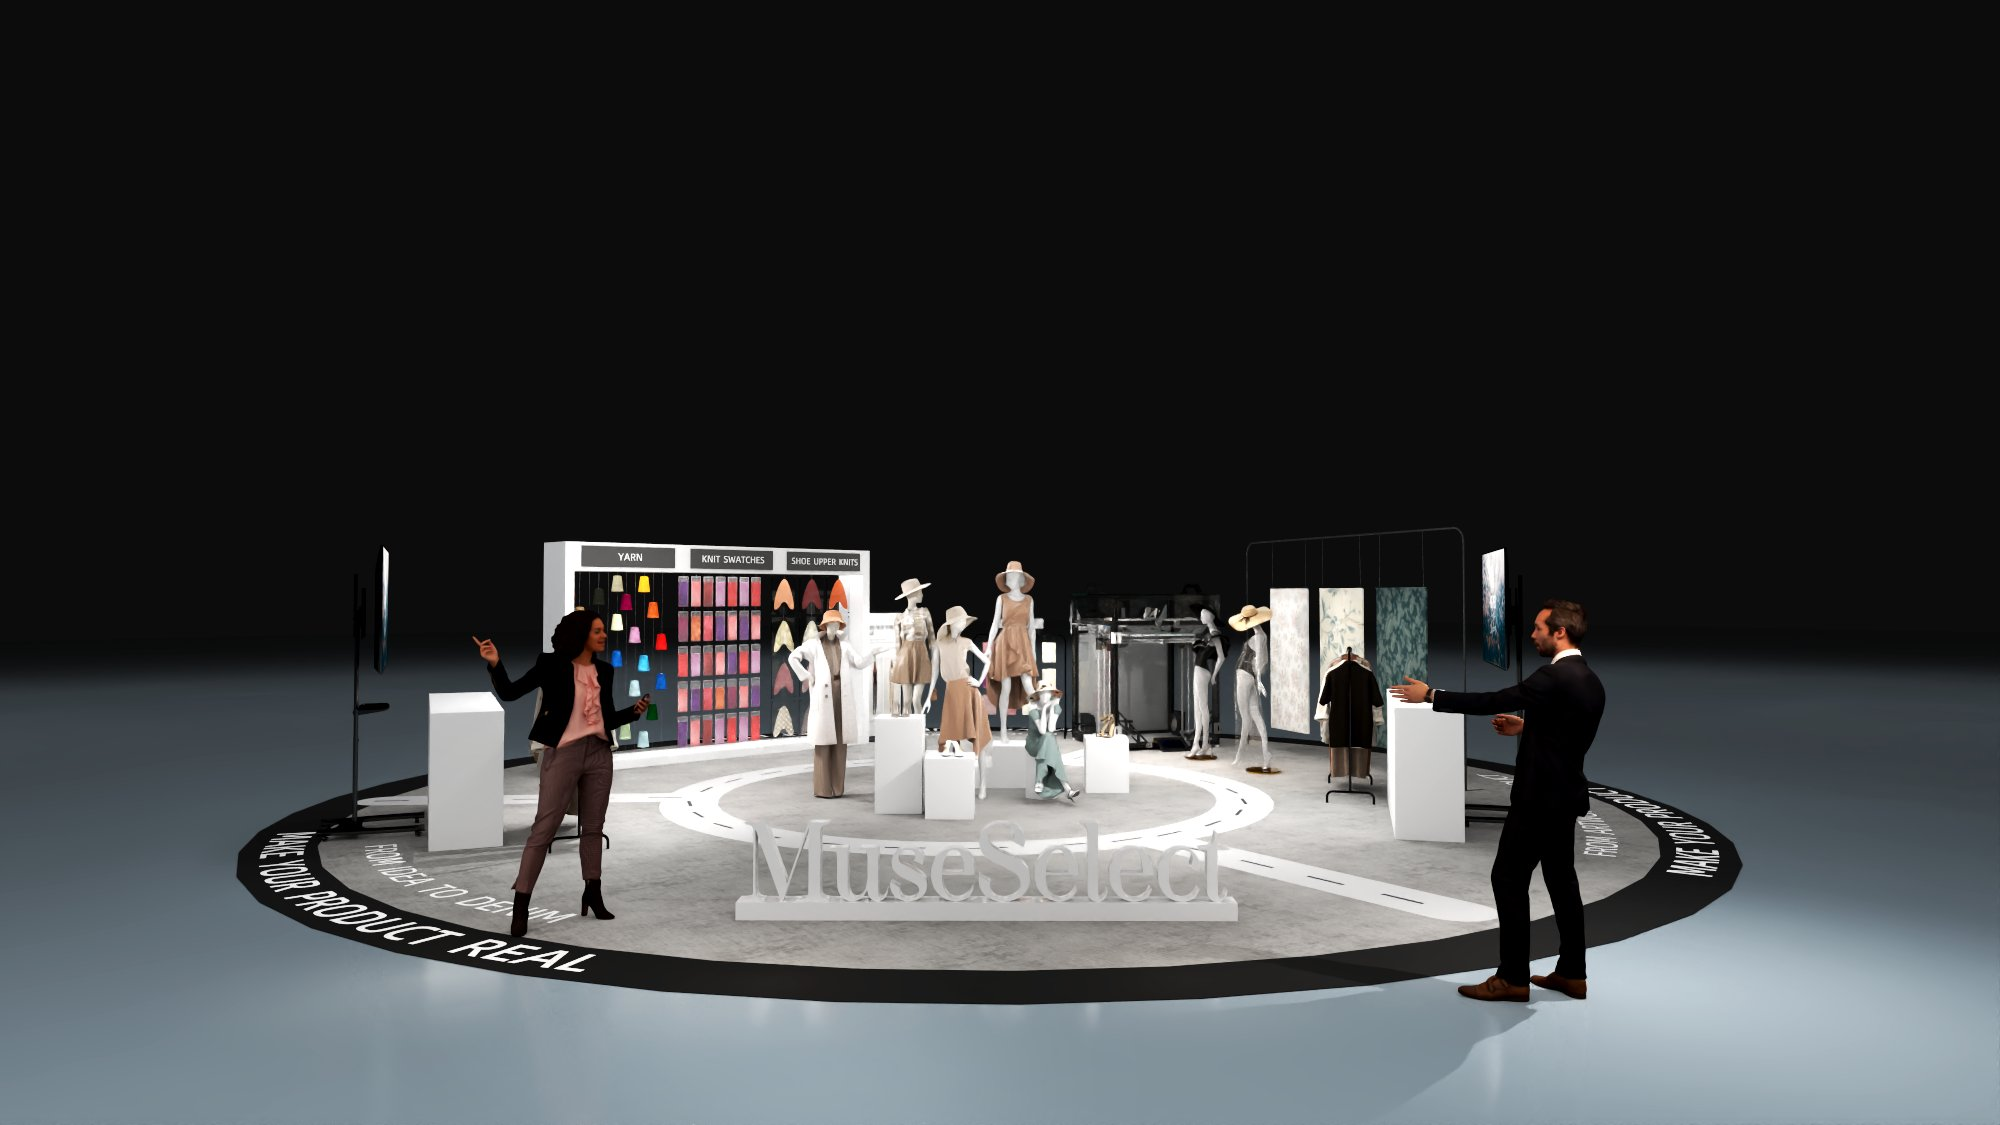
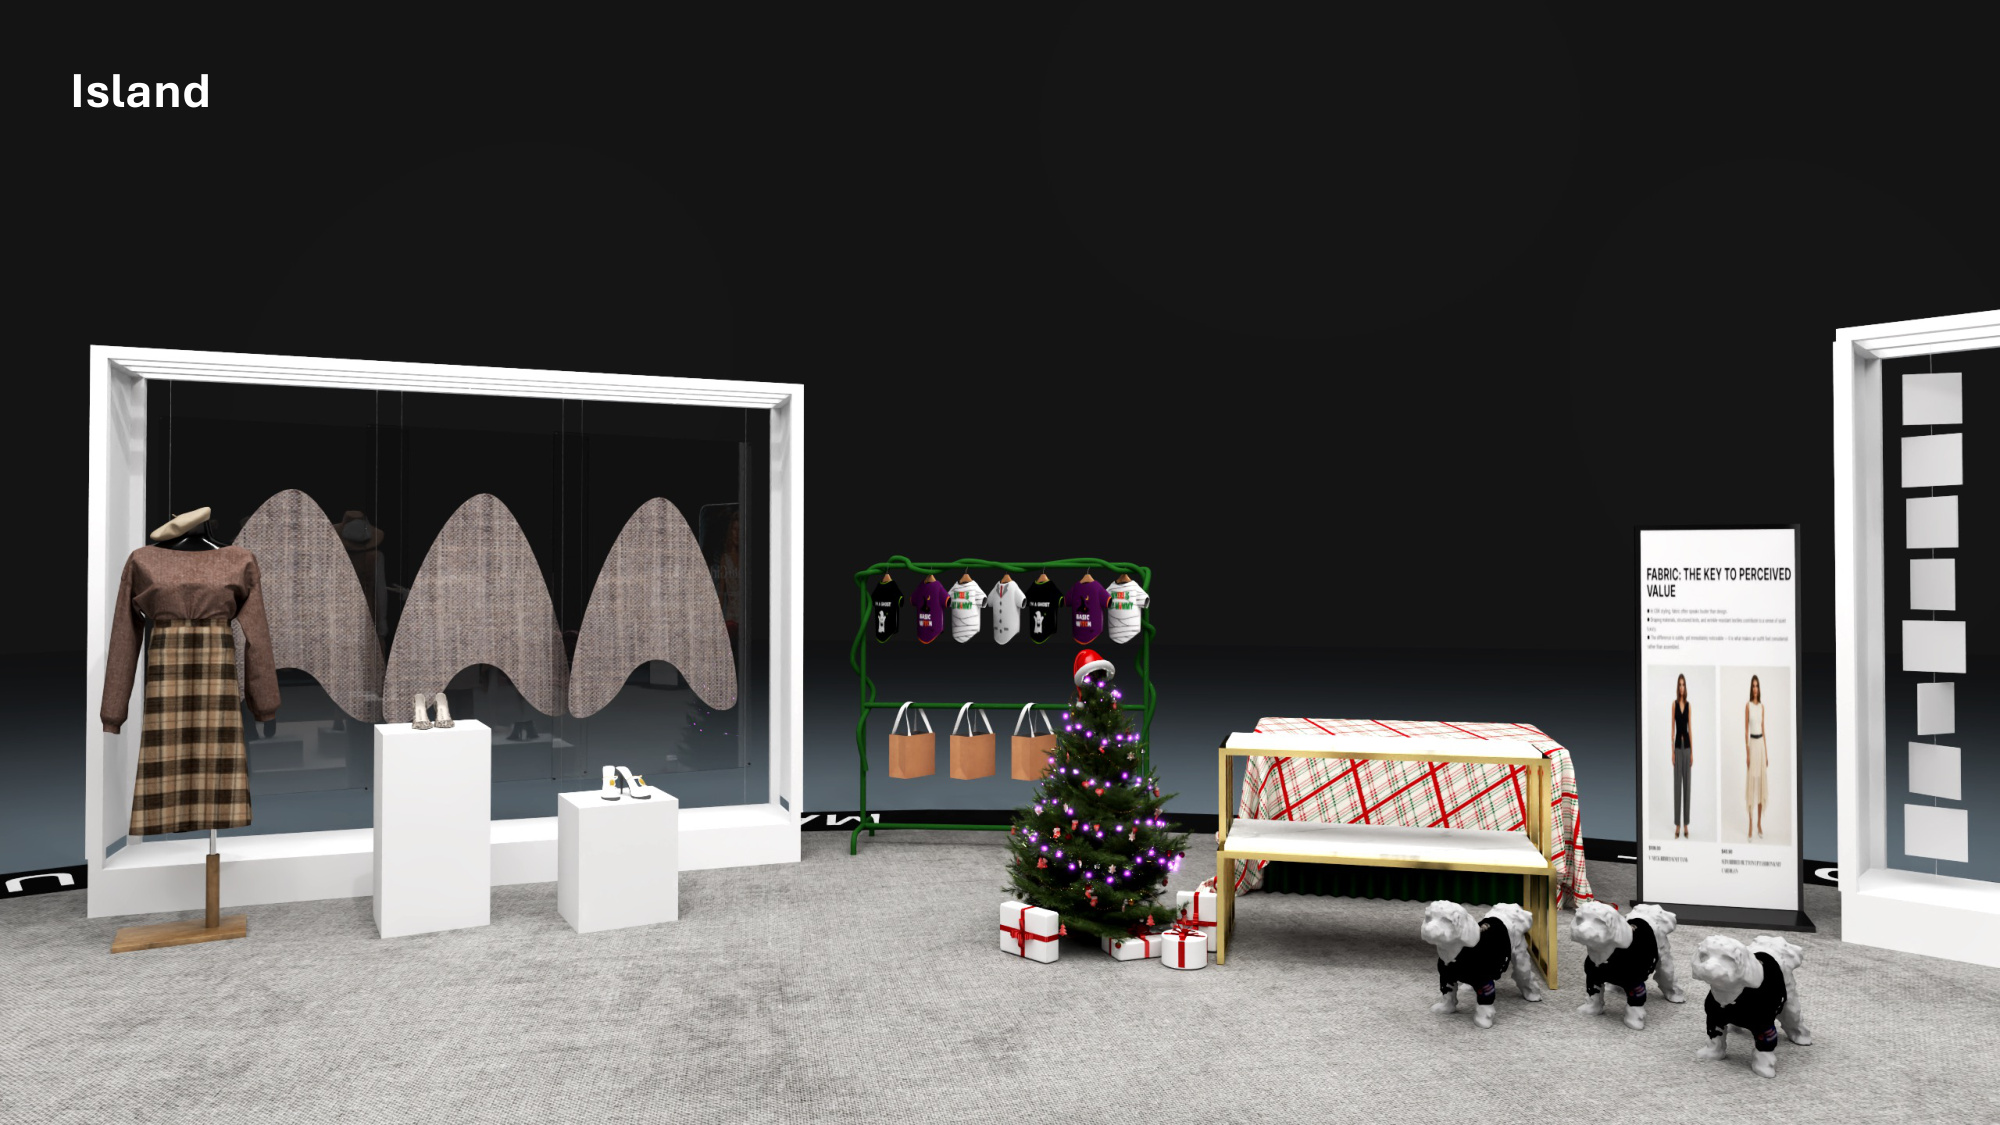
Muse: client design (revised 8/14) — remove AMG spec, 9 頁 renders

diff --git a/script.js b/script.js
@@ -329,8 +329,8 @@ ZONES: [
     req: ['1× Display Sign — 1000W×2000H×300D, Formica White, Paint Orange, LED Strip', '1× 42" TV + stand + Media Player + Media Player, Floor Stand', 'Booth A 汕頭: Three-Step Stair Display 1200W×900H×900D (WHT) + 2× Popup Bracket + PVC Graphic 2150×250 + Floor Vinyl', 'Booth B 永康: Display Stand 1424W×1700H×412D (WHT+Wood+Acrylic) + 2× Popup Bracket + PVC Graphic 2150×250 + Floor Vinyl', 'Booth C 鄭州: 5× Display Stands (1500×500 + 500×500 + 2× 500×800 + 500×1000) Formica WHT + 2× Popup Bracket + PVC Graphic 2150×250 + Floor Vinyl', 'Booth D 廣州: Curved Display Stand 2000W×1300H×1000D Formica WHT + 2× Popup Bracket + PVC Graphic 2150×250 + Floor Vinyl'] },
   { name: 'Podcast', owner: 'Iris', status: 'Approved', img: 'podcast-render-1', renders: ['podcast-render-1'], drawings: ['podcast-dwg-1'], scope: '5.4×3.4m. Octanorm structure + clear acrylic panels + carpet. Client provides angle tables, chairs, On Air lightbox.', flag: 'OP1 spec A.13 · Client display items',
     req: ['1× Custom Octanorm Structure — 5400W×2423H×3588D', '4× Clear Acrylic #01 — 1208×2266×3mm, 1/8"', '3× Clear Acrylic #02 — 1029×2266×3mm, 1/8"', '1× Carpet — 5180×3368mm (≈192 sqft)', '4× Vinyl Graphic — 1208×898mm, 4/0 (PD-FRONT-GLASS)', '3× Vinyl Graphic — 1029×898mm, 4/0 (PD-LEFT-GLASS)', '— CLIENT —', '4× Angle Table', '1× On Air Lightbox', '6× Chair'] },
-  { name: 'Creator Market (Muse)', owner: 'Iris', status: 'In Review', img: 'muse-scope-1', renders: [...gallery('muse-scope', 15)], drawings: [...gallery('muse-dwg', 6)], scope: 'AMG shop drawings A.1–A.6 (JP, RENT). Island: 4× Std Counter (BLK 909-58), 3D Letter 2850×550×200 (WHT), Display Case 4000×2410×500 (WHT + fishing lines), 6× Display Stands. Exhibitor: 11× 32sqm booths, 150× LED Arm Light, 30× Pipe & Drape (WHT), 126M Floor Vinyl/Tape. Registration: 3× LED Arm Light. Sponsor: 5× Std Counter (WHT 949-58) + 15× LED Arm Light.', flag: '150× LED Arm Light · 126M floor vinyl',
-    req: ['Wooden structure (frame backdrop, 2,413mmH)', 'Multiple display columns (Museland Creation / Brand Builder / Shop Builder)', 'Large curved vinyl floor', 'Central interactive display', 'Custom Panel + Graphic', 'Std Panel + Fabric', 'Ultraform acrylic letters (some hanging)', 'Wooden box display', 'Grey carpet', 'Clothes rack + changing room (by Youngs)', 'Acrylic box display (by Youngs)', 'Hanging cloth setup (by Youngs)'] },
+  { name: 'Creator Market (Muse)', owner: 'Iris', status: 'In Review', img: 'muse-scope-2', renders: [...gallery('muse-scope', 9)], drawings: [], scope: 'Muse client design (revised 8/14). Island + Sponsor. Circular flooring 320sqm black/grey/white. Island: 8sqm×12 + 16sqm×6 + 32sqm×4. 75" TV ×3, 1m Std Counter ×5, Custom wood frame ×3, Custom column ×6. Arm lights pending JT confirmation.', flag: 'Client design · 320sqm · arm light pending',
+    req: ['Circular flooring — black/grey/white w/ text (320sqm)', '75" TV w/ stand ×3', '1mW Std Counter ×5', 'Custom wood frame structure w/ base ×3 (open 5 sides, overhead crossbeam for fishing lines)', 'PVC graphic on both sides ×3', 'Custom Column ×6 (Island)', 'Vinyl sticker (Sponsor)', 'Arm lights — pending JT confirmation'] },
   { name: 'UED Booth', owner: 'Jin & Chris', status: 'Approved', img: 'ued-render-1', renders: ['ued-render-1', 'ued-render-2'], drawings: ['ued-dwg-1'], scope: '7×2.2m (15.4m²). Std Panel + Std Counter + 55" TV + LED + RX-101 channels. Flooring ≈169 sqft.', flag: 'Furniture and devices from Youngs',
     req: ['5× Std Panel — 990W×2413H×100D, No Finish', '2× Graphic Bracket — 100W×250H×50D, Formica White', '1× Cover PVC White — 4\'×8\', Panel Edges', '4× Std Counter — 990W×1000H×495D, Formica White (949-58), Lockable Door+Shelf', '3× Std Counter — 495W×1000H×495D, Formica White, Lockable Door+Shelf', '1× 55" TV + Media Player, HDMI Cable, Floor Stand', '3× LED Arm Light', '82ft RX-101 Aluminum Channels', '— YOUNGS —', 'Furniture and devices'] },
   { name: 'Agentic Robotics Arena', owner: 'Ari', status: 'TBD', img: 'agentic-robotics-render-1', renders: ['agentic-robotics-render-1', 'agentic-robotics-render-2'], scope: 'AMG only provide carpet and floor vinyl. All else by Youngs. Size TBD.', flag: '⚠ Size TBD — carpet + vinyl only', req: [] },

diff --git a/index.html b/index.html
@@ -239,7 +239,7 @@
   </div>
 </div>
 
-<script src="script.js?v=119&t=20260813"></script>
+<script src="script.js?v=120&t=20260814"></script>
 <script>
 var FP_PAGES = ['assets/floor-plan-lacc.jpg', 'assets/floor-plan-cgs.jpg'];
 var FP_CAPTIONS = ['Page 1 — Zone Overview + Legend', 'Page 2 — Full Floor Plan (全場平面圖)'];
